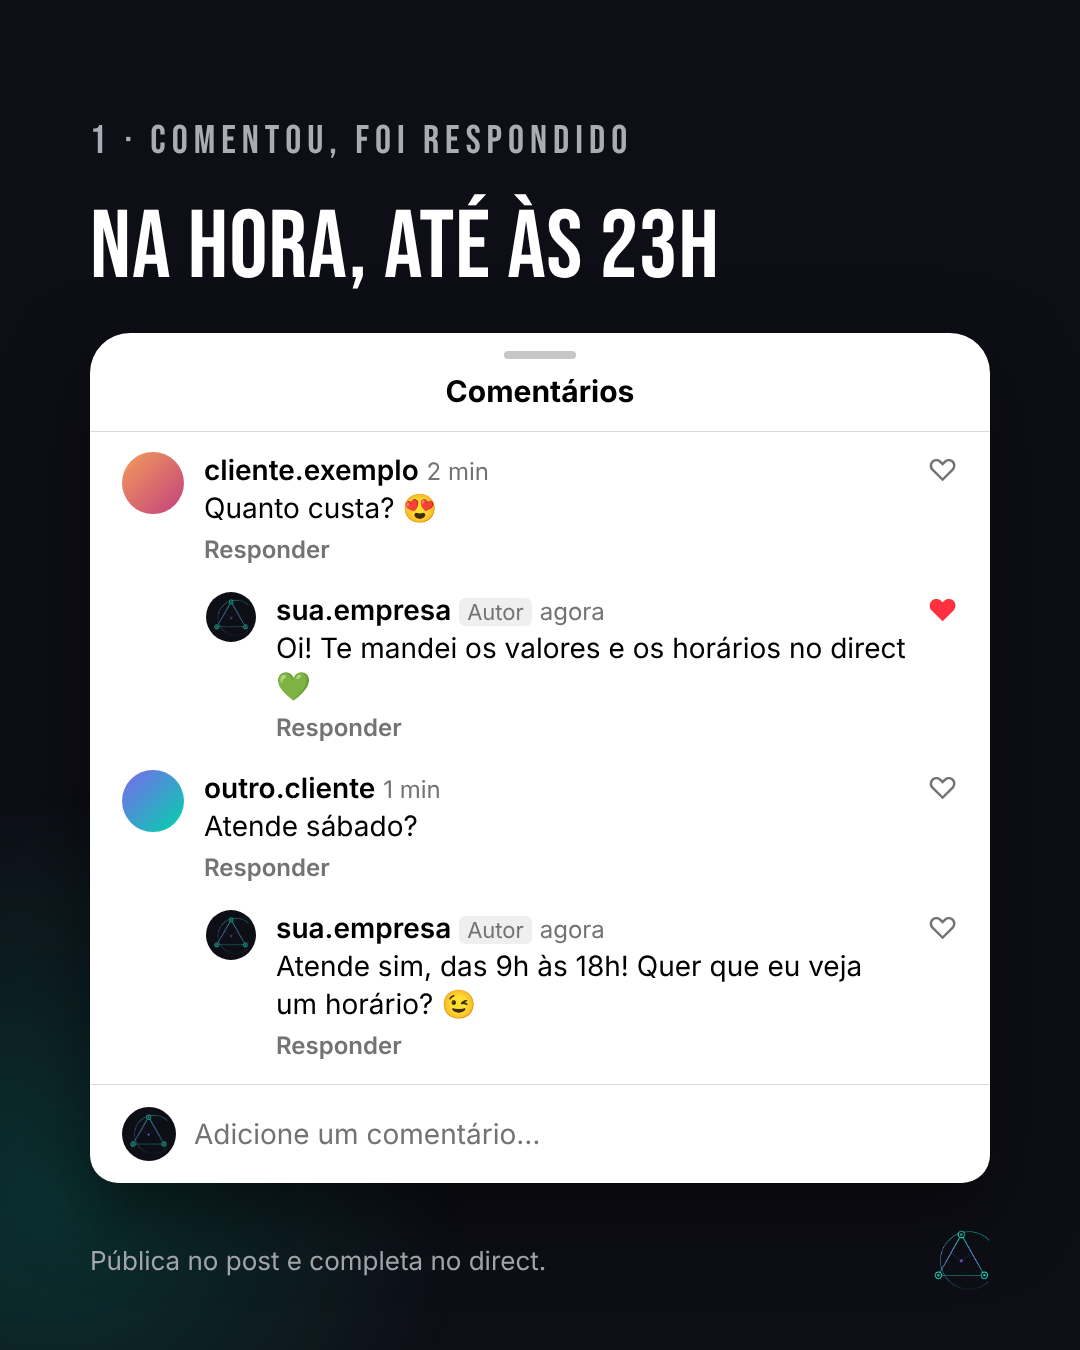
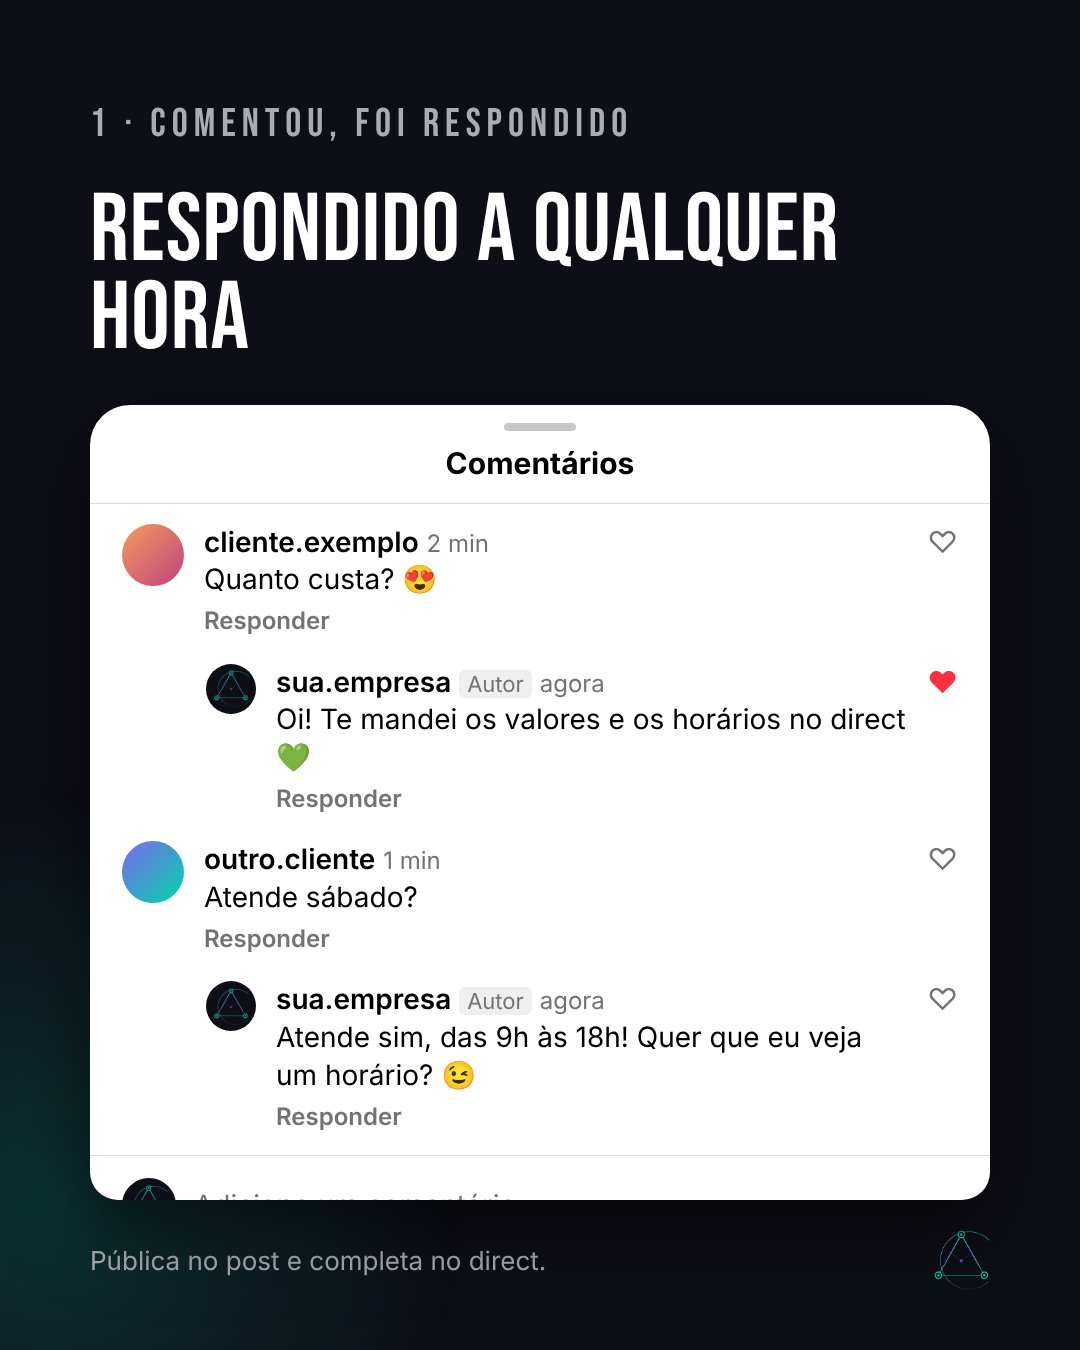
fix(conteudo): título do slide 2 sem horário
Claude-Session: https://claude.ai/code/session_01BjUtgfjoU4JRqxZijLSVJq

diff --git a/conteudo/carrossel-malvora-social/_fonte/carrossel.html b/conteudo/carrossel-malvora-social/_fonte/carrossel.html
@@ -34,7 +34,7 @@ body{width:1080px}
  <div class="seta">arraste →</div></section>
 <section class="s" id="c2"><div class="glow" style="left:-400px;bottom:-300px"></div>
  <div class="n">1 · COMENTOU, FOI RESPONDIDO</div>
- <div class="h" style="font-size:96px">Na hora, até às 23h</div>
+ <div class="h" style="font-size:96px">Respondido a qualquer hora</div>
  <div class="tela">
   <div class="tela-topo"><span class="pega"></span><b>Comentários</b></div>
   <div class="cm"><div class="av"></div><div class="tx"><p><b>cliente.exemplo</b> <i>2 min</i></p><p>Quanto custa? 😍</p><p class="acoes">Responder</p></div><div class="cor">♡</div></div>
